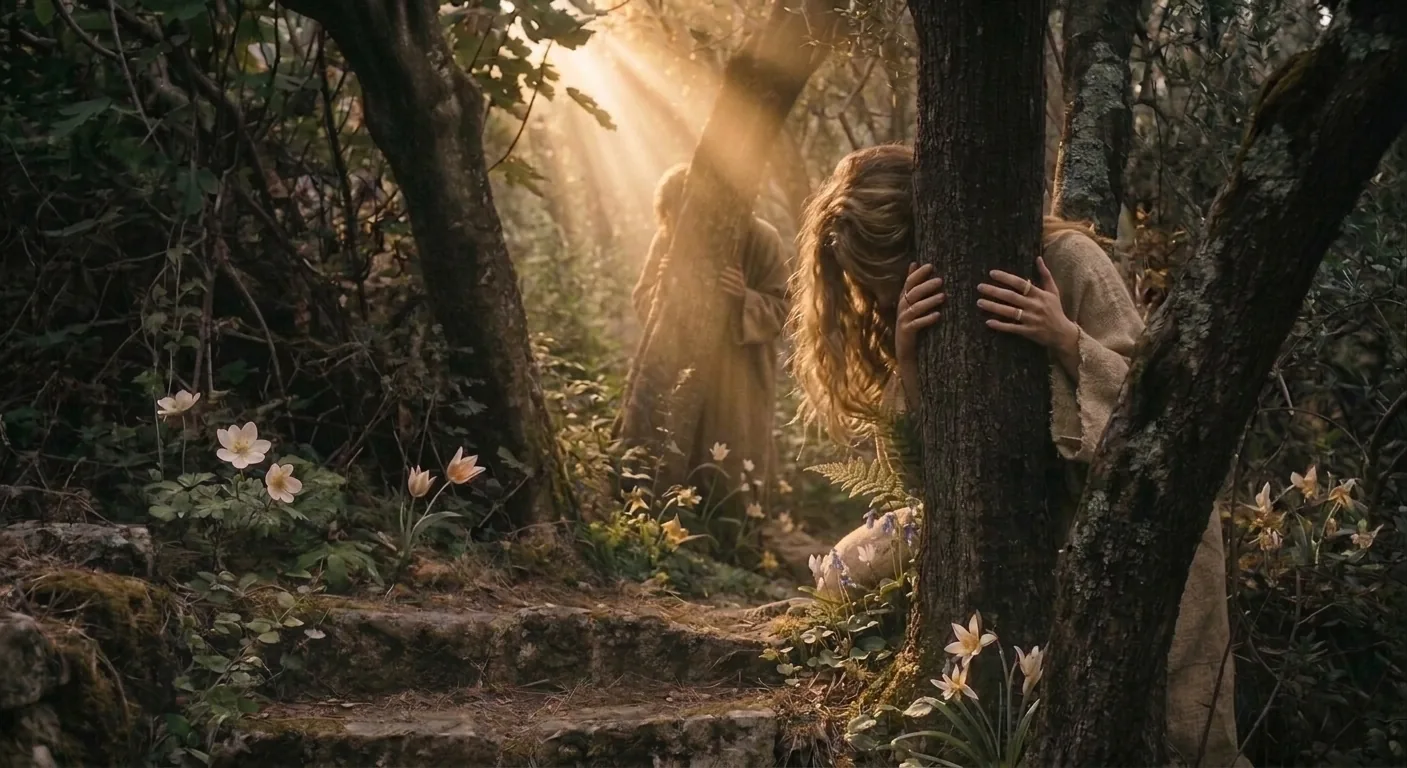
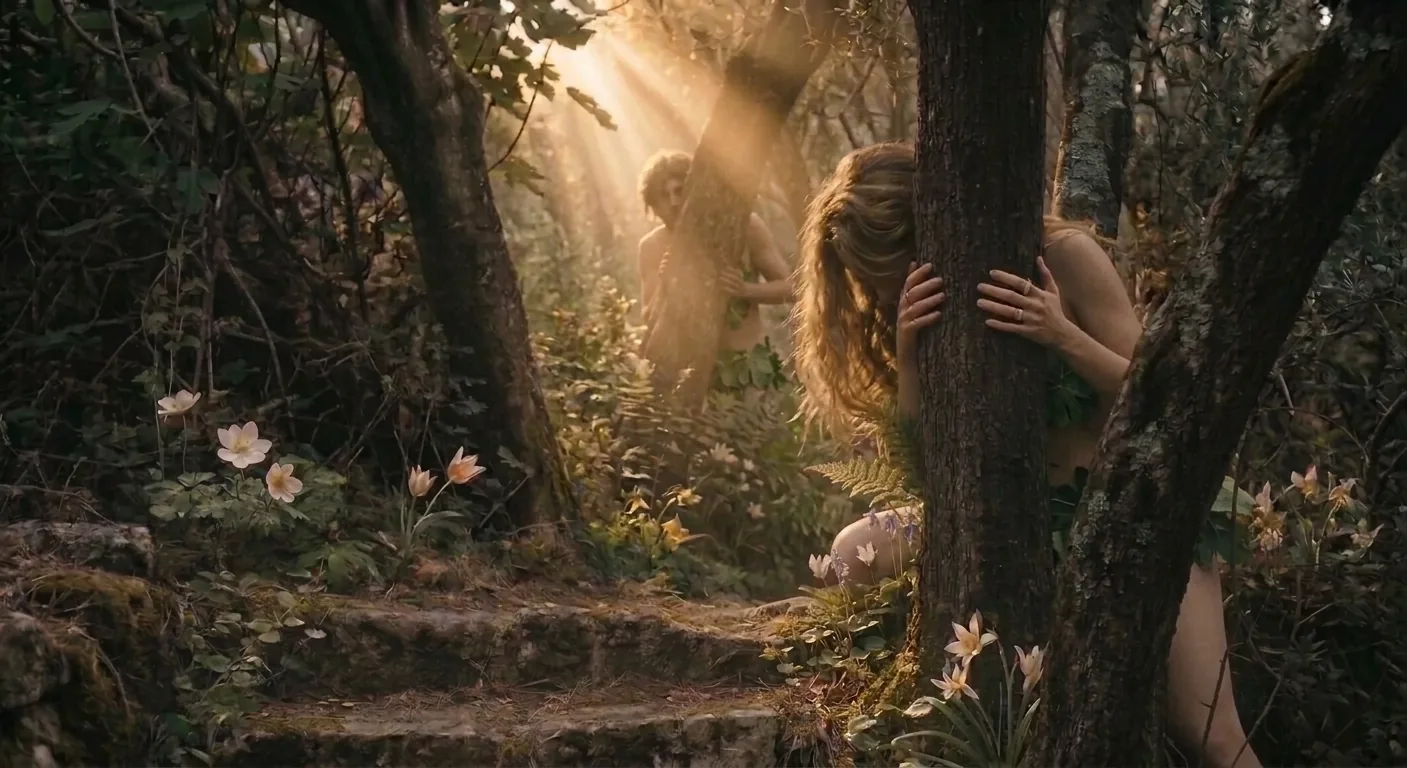
Each chapter gets its own word, and it tells you what it means
Every chapter opening rendered the same hardcoded פָּנִים — ten chapters, one word,
ten times, at 17% opacity with pointer-events:none. Decoration you could not read
and could not touch, and it was hidden entirely under 900px.

content/marks.js gives each chapter the word that chapter actually turns on, and
the mark now carries its meaning on hover and on keyboard focus, through the same
#gloss-card the inline glossary already uses rather than a second tooltip.

  I    אֵל רֳאִי               El Ro'i          Genesis 16:13
  II   סָתַר                   satar            Isaiah 8:17
  III  פָּנִים בְּפָנִים        panim be-panim   Deuteronomy 5:4
  IV   פְּנִיאֵל               Peniel           Genesis 32:31
  V    פֶּה אֶל־פֶּה            peh el peh       Numbers 12:8
  VI   מַסְוֶה                 masveh           Exodus 34:33
  VII  הַסְתֵּר אַסְתִּיר       haster astir     Deuteronomy 31:18
  VIII כַּחַלָּמִישׁ            ka-chalamish     Isaiah 50:7
  IX   ἀνθρακιά               anthrakia        John 21:9
  X    πρόσωπον πρὸς πρόσωπον prosopon pros prosopon  1 Corinthians 13:12

The set crosses from Hebrew to Greek at chapter IX. That is not a formatting
choice — the vocabulary changes language where the story does, at the
resurrection appearances.

EVERY POINTED FORM WAS VERIFIED AGAINST A SOURCE, not written from memory:
Sefaria's Masoretic text for the Hebrew, BibleHub's lexicon for the Greek lemmas.
[…]

diff --git a/content/marks.js b/content/marks.js
@@ -1,0 +1,32 @@
+// PANIM_MARKS — the word in each chapter's margin, and what it means on hover.
+//
+// Every chapter opening used to render the same hardcoded פָּנִים, ten times. This
+// gives each chapter its own word: the one that chapter is actually about.
+//
+// The set crosses from Hebrew to Greek at chapter IX, which is not a formatting
+// choice — it is the book's own movement. The vocabulary changes language where
+// the story does, at the resurrection appearances.
+//
+// 🛑 EVERY POINTED FORM BELOW WAS VERIFIED AGAINST A SOURCE, not written from
+// memory — Sefaria's Masoretic text for the Hebrew (sefaria.org/api/texts/...)
+// and BibleHub's lexicon for the two Greek lemmas. Cantillation marks (te'amim,
+// U+0591–U+05AF) are stripped and the nikkud kept: the accents are for chanting
+// and only clutter a word quoted on its own. If you change one of these, verify
+// it the same way — wrong nikkud in a book about a Hebrew word is not worth it.
+//
+//   w    the word, pointed
+//   t    transliteration, matching the book's own style
+//   g    what it means — shown on hover/focus
+//   r    where it is
+window.PANIM_MARKS = {
+  "ch01": { w: "אֵל רֳאִי", t: "El Ro'i", g: "The God who sees me — the name a runaway slave girl gave Him, and the only name in Scripture given to God by a human being.", r: "Genesis 16:13", lang: "he" },
+  "ch02": { w: "סָתַר", t: "satar", g: "To hide on purpose: a face deliberately turned away. Not absence — a decision.", r: "Isaiah 8:17", lang: "he" },
+  "ch03": { w: "פָּנִים בְּפָנִים", t: "panim be-panim", g: "Face to face. What Sinai actually offered them, and what they asked Him to stop.", r: "Deuteronomy 5:4", lang: "he" },
+  "ch04": { w: "פְּנִיאֵל", t: "Peniel", g: "The face of God — the name Jacob gave a river crossing after a night he did not win.", r: "Genesis 32:31", lang: "he" },
+  "ch05": { w: "פֶּה אֶל־פֶּה", t: "peh el peh", g: "Mouth to mouth. Rarer than face to face, and higher: what God says Moses got and the prophets did not.", r: "Numbers 12:8", lang: "he" },
+  "ch06": { w: "מַסְוֶה", t: "masveh", g: "The veil. Hebrew had no word for this and minted one; it appears nowhere else in the Bible, before or after.", r: "Exodus 34:33", lang: "he" },
+  "ch07": { w: "הַסְתֵּר אַסְתִּיר", t: "haster astir", g: "I will surely hide. The verb doubled, the way Hebrew doubles a verb when it means it.", r: "Deuteronomy 31:18", lang: "he" },
+  "ch08": { w: "כַּחַלָּמִישׁ", t: "ka-chalamish", g: "Like flint — the stone you strike fire from. A face set toward the thing it will not survive.", r: "Isaiah 50:7", lang: "he" },
+  "ch09": { w: "ἀνθρακιά", t: "anthrakia", g: "A charcoal fire. It burns in exactly two places in the New Testament: the courtyard where Peter denied Him, and a beach at dawn.", r: "John 21:9", lang: "el" },
+  "ch10": { w: "πρόσωπον πρὸς πρόσωπον", t: "prosopon pros prosopon", g: "Face to face — the Greek carrying the oldest Hebrew phrase in the book across into its last promise.", r: "1 Corinthians 13:12", lang: "el" }
+};

diff --git a/css/components.css b/css/components.css
@@ -202,15 +202,31 @@
    chapter opening, large and pale, in the chapter's own accent — a standing
    watermark, the way a running head works in print. Correct vocalised Hebrew
    (פָּנִים), reused rather than invented per chapter, so nothing is guessed. */
+/* Each chapter's own word (content/marks.js), not a watermark any more.
+   It was opacity .17 with pointer-events:none — decoration you could not read and
+   could not touch. It now carries meaning, so it has to be legible and hoverable:
+   the word in plain view, and what it means on hover or keyboard focus, through the
+   same #gloss-card the inline glossary terms use.
+   Smaller than before because four of the ten marks are phrases, not single words
+   (peh el peh, panim be-panim, haster astir, prosopon pros prosopon). */
 .chapter-mark {
   font-family: var(--heb); font-weight: 300;
-  font-size: clamp(2.2rem, 4.4vw, 3.9rem);
-  line-height: .95;
+  font-size: clamp(1.45rem, 2.5vw, 2.35rem);
+  line-height: 1.12;
   color: var(--accent);
-  opacity: .17;
+  opacity: .62;
   margin-top: .55em;
   user-select: none;
-  pointer-events: none;
+  cursor: help;
+  transition: opacity var(--dur-fast) var(--ease);
+}
+.chapter-mark:hover, .chapter-mark:focus-visible { opacity: 1; }
+.chapter-mark:focus-visible { outline: 2px solid var(--accent); outline-offset: 4px; }
+/* Greek is left-to-right and is set in the book serif, not the Hebrew face */
+.chapter-mark.is-greek {
+  font-family: var(--serif);
+  font-size: clamp(1.15rem, 1.9vw, 1.7rem);
+  font-style: italic;
 }
 .chapter-mark .heb-g {
   display: inline-block;
@@ -221,7 +237,12 @@
 @media (prefers-reduced-motion: reduce) {
   .chapter-mark .heb-g { opacity: 1; transform: none; transition: none; }
 }
-@media (max-width: 900px) { .chapter-mark { display: none; } }
+/* It used to be hidden on phones because it was ornament. It is content now:
+   the word each chapter turns on. Kept, smaller, above the title. */
+@media (max-width: 900px) {
+  .chapter-mark { font-size: 1.3rem; opacity: .7; margin-top: .25em; }
+  .chapter-mark.is-greek { font-size: 1.05rem; }
+}
 
 /* the hero's Hebrew writes itself in, right to left, once */
 .hero-hebrew .heb-g {

diff --git a/index.html b/index.html
@@ -17,12 +17,12 @@
 <link rel="apple-touch-icon" href="icon-180.png">
 <link rel="manifest" href="manifest.webmanifest">
 
-<link rel="stylesheet" href="fonts/fonts.css?v=12">
-<link rel="stylesheet" href="css/site.css?v=12">
-<link rel="stylesheet" href="css/components.css?v=12">
-<link rel="stylesheet" href="css/player.css?v=12">
-<link rel="stylesheet" href="css/room.css?v=12">
-<link rel="stylesheet" href="css/polish.css?v=12">
+<link rel="stylesheet" href="fonts/fonts.css?v=13">
+<link rel="stylesheet" href="css/site.css?v=13">
+<link rel="stylesheet" href="css/components.css?v=13">
+<link rel="stylesheet" href="css/player.css?v=13">
+<link rel="stylesheet" href="css/room.css?v=13">
+<link rel="stylesheet" href="css/polish.css?v=13">
 </head>
 <body>
 <a class="skip-link" href="#main">Skip to content</a>
@@ -266,15 +266,16 @@
 
 <audio id="narration-audio" preload="none"></audio>
 
-<script src="content/chapters.js?v=12"></script>
-<script src="content/images.js?v=12"></script>
-<script src="content/audio-manifest.js?v=12"></script>
-<script src="js/render.js?v=12"></script>
-<script src="js/ui.js?v=12"></script>
-<script src="js/motion.js?v=12"></script>
-<script src="js/sync.js?v=12"></script>
-<script src="js/player.js?v=12"></script>
-<script src="js/room.js?v=12"></script>
+<script src="content/chapters.js?v=13"></script>
+<script src="content/images.js?v=13"></script>
+<script src="content/audio-manifest.js?v=13"></script>
+<script src="content/marks.js?v=13"></script>
+<script src="js/render.js?v=13"></script>
+<script src="js/ui.js?v=13"></script>
+<script src="js/motion.js?v=13"></script>
+<script src="js/sync.js?v=13"></script>
+<script src="js/player.js?v=13"></script>
+<script src="js/room.js?v=13"></script>
 <script>
 if ('serviceWorker' in navigator && location.protocol === 'https:') {
   addEventListener('load', function () { navigator.serviceWorker.register('sw.js').catch(function(){}); });

diff --git a/content/images.js b/content/images.js
@@ -21,13 +21,26 @@ window.PANIM_IMAGES = {
     caption: "The oldest words we have.",
     ref: "Numbers 6:24–26 · c. 600 BC"
   },
+  // ⚠ PLACEHOLDER — still golden and lush on the coldest page in the book, and the
+  // figures read as modern (long wavy auburn hair) and are nude rather than in the
+  // fig leaves of Gen 3:7. Better than the previous frame, still not right.
+  // Replace against art/PROMPTS.md `ch02-trees`.
   "ch02-trees": {
     src: "art/ch02-trees.webp",
-    alt: "A dense garden at dusk; two figures press themselves behind tree trunks, faces hidden, while a soft searching light moves between the trees toward them.",
+    alt: "A garden at dusk; two figures press themselves behind tree trunks, faces hidden, while a soft searching light moves between the trees toward them.",
     caption: "And they hid themselves from the face of the LORD God among the trees.",
     ref: "Genesis 3:8"
   },
-  "ch02-storm": null,
+  // ⚠ PLACEHOLDER — this is a VIKING LONGSHIP. Dragon-head prow, Norse knotwork,
+  // axe-blade sternpost, Scandinavian crew; 9th-century AD, where Jonah's ship is
+  // 8th-century BC Phoenician. It is also painted, not photographic. Up so the slot
+  // is not empty; replace against art/PROMPTS.md `ch02-storm`, which names the fix.
+  "ch02-storm": {
+    src: "art/ch02-storm.webp",
+    alt: "A single-masted ship in a heavy sea at night under rain, a wave lifting under the hull, cargo jars going over the side, one cold break of light in the cloud behind.",
+    caption: "The LORD hurled a great wind onto the sea.",
+    ref: "Jonah 1:4"
+  },
   "ch03-mountain": {
     src: "art/ch03-mountain.webp",
     alt: "A mountain under a night sky, its summit burning under smoke and lightning while a crowd of small robed figures stands far back on the plain below, facing it, not moving closer.",

diff --git a/js/render.js b/js/render.js
@@ -231,9 +231,33 @@
     // numeral and Hebrew mark share the margin column as one stack, so the mark sits
     // just under the numeral instead of dropping to a second grid row below the
     // whole title block.
+    // Each chapter's own word, from content/marks.js — the openings all used to
+    // show the same hardcoded PANIM_HEB. Hebrew is rtl and gets grapheme-split so
+    // the combining nikkud stay attached; Greek is ltr and needs neither. Falls
+    // back to פָּנִים if a chapter has no entry.
+    var mk = (window.PANIM_MARKS || {})[chapter.id];
+    var markHtml;
+    if (mk && mk.w) {
+      var isHeb = mk.lang !== 'el';
+      var title = mk.t + ' — ' + mk.g + ' (' + mk.r + ')';
+      markHtml =
+        '<div class="chapter-mark' + (isHeb ? '' : ' is-greek') + '" lang="' + esc(mk.lang) + '"' +
+             (isHeb ? ' dir="rtl"' : '') +
+             ' tabindex="0" role="note"' +
+             ' aria-label="' + esc(title) + '"' +
+             ' data-mark-term="' + esc(mk.t) + '"' +
+             ' data-mark-ref="' + esc(mk.r) + '"' +
+             // reuses the existing #gloss-card tooltip rather than a second one
+             ' data-gloss-text="' + esc(title) + '">' +
+          (isHeb ? hebSpans(mk.w) : esc(mk.w)) +
+        '</div>';
+    } else {
+      markHtml = '<div class="chapter-mark" lang="he" dir="rtl" aria-hidden="true">' +
+        hebSpans(PANIM_HEB) + '</div>';
+    }
     out.push('<div class="chapter-margin">' +
       '<span class="chapter-num">Chapter ' + ROMAN[chapter.num] + '</span>' +
-      '<div class="chapter-mark" lang="he" dir="rtl" aria-hidden="true">' + hebSpans(PANIM_HEB) + '</div>' +
+      markHtml +
     '</div>');
     out.push('<div class="chapter-titleblock">');
     out.push('<h2 class="chapter-title">' + esc(chapter.title) + '</h2>');

diff --git a/js/ui.js b/js/ui.js
@@ -203,23 +203,23 @@
     }
 
     document.addEventListener('mouseover', function (e) {
-      var t = e.target.closest && e.target.closest('.gloss-term');
+      var t = e.target.closest && e.target.closest('.gloss-term, .chapter-mark[data-gloss-text]');
       if (t) show(t);
     });
     document.addEventListener('mouseout', function (e) {
-      var t = e.target.closest && e.target.closest('.gloss-term');
+      var t = e.target.closest && e.target.closest('.gloss-term, .chapter-mark[data-gloss-text]');
       if (t) hide();
     });
     document.addEventListener('focusin', function (e) {
-      var t = e.target.closest && e.target.closest('.gloss-term');
+      var t = e.target.closest && e.target.closest('.gloss-term, .chapter-mark[data-gloss-text]');
       if (t) show(t);
     });
     document.addEventListener('focusout', function (e) {
-      var t = e.target.closest && e.target.closest('.gloss-term');
+      var t = e.target.closest && e.target.closest('.gloss-term, .chapter-mark[data-gloss-text]');
       if (t) hide();
     });
     document.addEventListener('click', function (e) {
-      var t = e.target.closest && e.target.closest('.gloss-term');
+      var t = e.target.closest && e.target.closest('.gloss-term, .chapter-mark[data-gloss-text]');
       if (t) {
         e.preventDefault();
         if (openTerm === t) hide(); else show(t);

diff --git a/sw.js b/sw.js
@@ -8,14 +8,14 @@
 // returning visitor is served the previous build out of the old cache
 // indefinitely — v3 was the Direction B rebuild, v4 the text rebuilt from the
 // manuscript, v5 the four new plates and the section dividers.
-var SHELL = 'panim-shell-v12';
+var SHELL = 'panim-shell-v13';
 var AUDIO = 'panim-audio-v1';
 
 // index.html requests every stylesheet and script as `...?v=ASSET_V`. Keep this
 // in step with the `?v=` in index.html and with the SHELL number, or the
 // precache stores URLs the page never asks for and everything falls through to
 // the network — which still works, but offline stops working silently.
-var ASSET_V = '12';
+var ASSET_V = '13';
 var VERSIONED = /\.(css|js)$/;
 var PRECACHE = [
   './', 'index.html', 'favicon.svg', 'og-image.png', 'manifest.webmanifest',

diff --git a/art/incoming/README.md b/art/incoming/README.md
@@ -40,3 +40,18 @@ resolution note in `../PROMPTS.md` before generating more.
 ## Slots with nothing staged
 
 `ch01-scroll` · `ch02-storm` · `ch07-gate` · `ch10-veil-lift` · `ch10-morning` · `og-image`
+
+---
+
+## 🚧 Placeholders now live on the site — replace these
+
+Wired 2026-08-27 so the slots are not empty. **Both are wrong and both are flagged
+in `content/images.js` with the reason, inline, right above the entry.**
+
+| slot | what is wrong | fix against |
+|---|---|---|
+| `ch02-storm` | 🔴 **It is a Viking longship** — dragon-head prow, Norse knotwork, axe-blade sternpost, Scandinavian crew. 9th century AD; Jonah's ship is 8th century BC Phoenician. Painted, not photographic. | `../PROMPTS.md` → `ch02-storm`, which specifies one mast, one square sail, curved stem and stern, steering oar, no rudder, no castles |
+| `ch02-trees` | 🟠 Still golden and lush on the coldest page in the book. Figures read as modern (long wavy auburn hair) and are nude rather than in the fig leaves of Gen 3:7. | `../PROMPTS.md` → `ch02-trees` |
+
+**The rest of the reroll queue is above.** Nothing here is a permanent decision —
+a plate is replaced by dropping a better frame in and re-running the WebP step.
